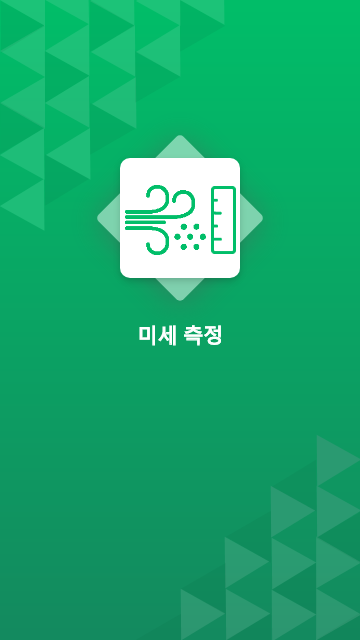
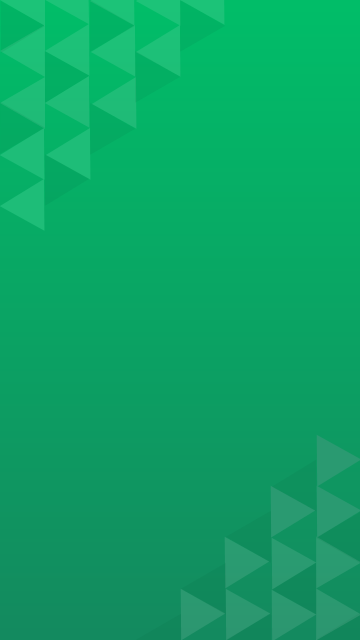
Completed loading form.

Changed region(s): [[0.275, 0.1875, 0.7333, 0.4688], [0.3667, 0.5, 0.4889, 0.5625], [0.5194, 0.5, 0.6111, 0.5625]]

diff --git a/src/components/screens/Loading.js b/src/components/screens/Loading.js
@@ -11,6 +11,10 @@ import {
 } from 'react-native';
 
 import {
+    ICON_FINEDUST,
+} from '../../utils/icons';
+
+import {
     IMAGE_LOADING,
 } from '../../utils/images';
 
@@ -41,7 +45,7 @@ export default class Loading extends Component<Props> {
             this.setState({
                 visibleBluetoothList: true,
             })
-        }, 2000);
+        }, 3000);
     }
 
     render() {
@@ -191,17 +195,74 @@ export default class Loading extends Component<Props> {
                     style={{
                         width: '100%',
                         height: '100%',
-                        justifyContent: 'center',
+                        justifyContent: 'flex-start',
                         alignItems: 'center',
                     }}
                     resizeMode="stretch"
                 >
+                    <View
+                        style={{
+                            marginTop: HP('20%'),
+                            width: WP('30%'),
+                            height: WP('30%'),
+                            justifyContent: 'center',
+                            alignItems: 'center',
+                            borderRadius: WP('3%'),
+                        }}
+                    >
+                        <View
+                            style={{
+                                position: 'absolute',
+                                top: 0,
+                                left: 0,
+                                width: WP('30%'),
+                                height: WP('30%'),
+                                transform: [{rotate: '45deg'}],
+                                zIndex: 0,
+                                backgroundColor: 'rgba(125, 214, 175, 1)',
+                                borderRadius: WP('3%'),
+                            }}
+                        />
+
+                        <View
+                            style={{
+                                position: 'absolute',
+                                top: 0,
+                                left: 0,
+                                width: WP('30%'),
+                                height: WP('30%'),
+                                zIndex: 0,
+                                backgroundColor: 'white',
+                                borderRadius: WP('3%'),
+                            }}
+                        />
+
+                        <Image
+                            source={ICON_FINEDUST}
+                            style={{
+                                width: WP('30%'),
+                                height: WP('30%'),
+                            }}
+                            resizeMode="stretch"
+                        />
+                    </View>
+
+                    <Text
+                        style={{
+                            marginTop: HP('5%'),
+                            fontSize: WP('6%'),
+                            color: 'white',
+                            fontWeight: 'bold',
+                        }}
+                    >미세 측정
+                    </Text>
+
                     {this.state.visibleBluetoothList ? (
                         <View/>
                     ) : (
                         <ActivityIndicator
                             style={{
-                                marginTop: HP('40%'),
+                                marginTop: HP('10%'),
                             }}
                             size={WP('15%')}
                             color='white'

diff --git a/src/utils/icons.js b/src/utils/icons.js
@@ -20,3 +20,4 @@ export const ICON_CLEANER = require(ICON_ADDR + 'ICON_CLEANER.png');
 export const ICON_STAR_WHITE = require(ICON_ADDR + 'ICON_STAR_WHITE.png');
 export const ICON_STAR_BLACK = require(ICON_ADDR + 'ICON_STAR_BLACK.png');
 export const ICON_HEART = require(ICON_ADDR + 'ICON_HEART.png');
+export const ICON_FINEDUST = require(ICON_ADDR + 'ICON_FINEDUST.png');
